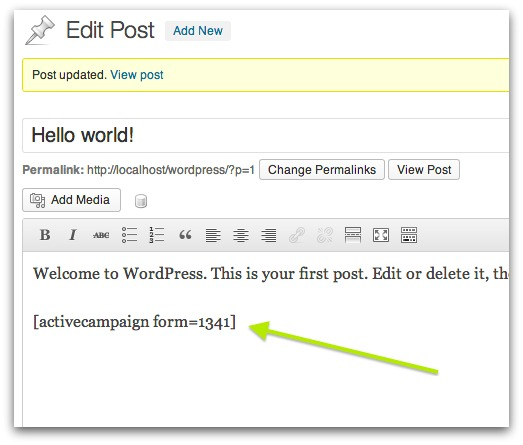
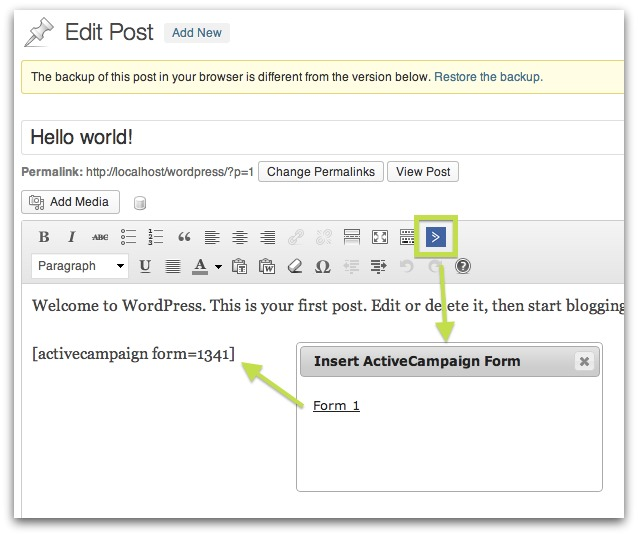
updated to version 5.1 (support for TinyMCE toolbar button for choosing and embedding forms into a post)

Changed region(s): [[0.0, 0.0292, 1.0, 0.9933]]

diff --git a/editor_buttons.js b/editor_buttons.js
@@ -1,0 +1,55 @@
+(function() {
+	tinymce.create('tinymce.plugins.ActiveCampaign', {
+		/**
+		 * Initializes the plugin, this will be executed after the plugin has been created.
+		 * This call is done before the editor instance has finished it's initialization so use the onInit event
+		 * of the editor instance to intercept that event.
+		 *
+		 * @param {tinymce.Editor} ed Editor instance that the plugin is initialized in.
+		 * @param {string} url Absolute URL to where the plugin is located.
+		 */
+		init : function(ed, url) {
+			ed.addButton("activecampaign_editor_forms", {
+				title : "Insert ActiveCampaign Form",
+				cmd : "activecampaign_editor_forms",
+				image : url + "/editor_icon.png"
+			});
+			ed.addCommand("activecampaign_editor_forms", function() {
+				activecampaign_editor_form_dialog();
+			});
+		},
+
+		/**
+		 * Creates control instances based in the incomming name. This method is normally not
+		 * needed since the addButton method of the tinymce.Editor class is a more easy way of adding buttons
+		 * but you sometimes need to create more complex controls like listboxes, split buttons etc then this
+		 * method can be used to create those.
+		 *
+		 * @param {String} n Name of the control to create.
+		 * @param {tinymce.ControlManager} cm Control manager to use inorder to create new control.
+		 * @return {tinymce.ui.Control} New control instance or null if no control was created.
+		 */
+		createControl : function(n, cm) {
+			return null;
+		},
+
+		/**
+		 * Returns information about the plugin as a name/value array.
+		 * The current keys are longname, author, authorurl, infourl and version.
+		 *
+		 * @return {Object} Name/value array containing information about the plugin.
+		 */
+		getInfo : function() {
+			return {
+				longname : "ActiveCampaign Subscription Forms",
+				author : "ActiveCampaign",
+				authorurl : "http://www.activecampaign.com",
+				infourl : "http://www.activecampaign.com/extend-wordpress.php",
+				version : "5.0"
+			};
+		}
+	});
+
+	// Register plugin
+	tinymce.PluginManager.add("activecampaign_editor_buttons", tinymce.plugins.ActiveCampaign);
+})();

diff --git a/activecampaign.php b/activecampaign.php
@@ -4,7 +4,7 @@ Plugin Name: ActiveCampaign
 Plugin URI: http://www.activecampaign.com/extend-wordpress.php
 Description: This plugin connects WordPress with your ActiveCampaign software and allows you to embed your subscription forms on your site.
 Author: ActiveCampaign
-Version: 5.0
+Version: 5.1
 Author URI: http://www.activecampaign.com
 */
 
@@ -18,6 +18,7 @@ Author URI: http://www.activecampaign.com
 ## version 4.0: Added many additional settings to control how your form is displayed and submitted.
 ## version 4.5: Added ActiveCampaign to the Settings menu so you can use the shortcode independent of the widget.
 ## version 5.0: Added support for multiple forms. Removed widget entirely.
+## version 5.1: Added button to TinyMCE toolbar to more easily choose and embed the form shortcode into the post body.
 
 define("ACTIVECAMPAIGN_URL", "");
 define("ACTIVECAMPAIGN_API_KEY", "");
@@ -375,7 +376,7 @@ function activecampaign_plugin_options() {
 
 }
 
-function dbg($var, $continue = 0, $element = "pre") {
+function ac_dbg($var, $continue = 0, $element = "pre") {
   echo "<" . $element . ">";
   echo "Vartype: " . gettype($var) . "\n";
   if ( is_array($var) ) echo "Elements: " . count($var) . "\n\n";
@@ -534,9 +535,122 @@ function activecampaign_plugin_menu() {
 	add_options_page(__("ActiveCampaign Settings", "menu-activecampaign"), __("ActiveCampaign", "menu-activecampaign"), "manage_options", "activecampaign", "activecampaign_plugin_options");
 }
 
+function activecampaign_editor_buttons() {
+	add_filter("mce_external_plugins", "activecampaign_add_buttons");
+	add_filter("mce_buttons", "activecampaign_register_buttons");
+}
+
+function activecampaign_add_buttons($plugin_array) {
+	$plugin_array["activecampaign_editor_buttons"] = get_site_url() . "/wp-content/plugins/activecampaign-subscription-forms/editor_buttons.js";
+	return $plugin_array;
+}
+
+function activecampaign_register_buttons($buttons) {
+	array_push($buttons, "activecampaign_editor_forms");
+	return $buttons;
+}
+
 //add_action("widgets_init", "activecampaign_register_widgets");
 add_action("init", "activecampaign_register_shortcodes");
+add_action("init", "activecampaign_editor_buttons");
 add_action("admin_menu", "activecampaign_plugin_menu");
 add_filter("widget_text", "do_shortcode");
+
+add_action("admin_footer", "activecampaign_javascript");
+add_action("wp_ajax_activecampaign_get_forms", "activecampaign_get_forms_callback");
+add_action("admin_enqueue_scripts", "activecampaign_custom_wp_admin_style");
+
+function activecampaign_javascript() {
+	$no_forms1 = __("No forms chosen yet. Go to the", "activecampaign-subscription-forms");
+	$no_forms2 = __("to choose your forms", "activecampaign-subscription-forms");
+	$no_forms3 = __("ActiveCampaign Settings page", "activecampaign-subscription-forms");
+	?>
+	<script type="text/javascript">
+
+		var $AC = jQuery.noConflict();
+
+		function activecampaign_editor_form_embed(form_id) {
+			// puts the [activecampaign form=#] shortcode into the body of the post.
+			var return_text = "[activecampaign form=" + form_id + "]";
+			tinymce.execCommand("mceInsertContent", 0, return_text);
+			$AC("#activecampaign_editor_forms").dialog("close");
+		}
+
+		function activecampaign_editor_form_dialog() {
+			// runs when you click the ActiveCampaign icon in the TinyMCE toolbar.
+
+			// shows the dialog to choose a form (after clicking the button in the editor).
+			$AC("#activecampaign_editor_forms").dialog({
+				title: "Insert ActiveCampaign Form"
+			});
+
+		}
+
+		jQuery(document).ready(function($AC) {
+
+			var editor_forms = "<div id='activecampaign_editor_forms'></div>";
+
+			var ajaxdata = {
+				action: "activecampaign_get_forms"
+				//whatever: 1234
+			};
+
+			$AC.ajax({
+				url: ajaxurl,
+				type: "GET",
+				data: ajaxdata,
+				error: function(jqXHR, textStatus, errorThrown) {
+					console.log(errorThrown);
+				},
+				success: function(data) {
+					data = JSON.parse(data);
+//console.log(data);
+//console.log(data.length);
+					if (typeof(data.length) == "undefined") {
+						// when there is data, data.length returns undefined for some reason.
+						var editor_forms = "<ul>";
+						for (var i in data) {
+							if (typeof(data[i]) != "function") {
+								editor_forms += "<li><a href='#' onclick='activecampaign_editor_form_embed(" + i + "); return false;'>" + data[i] + "</a></li>";
+							}
+						}
+						editor_forms += "</ul>";
+					}
+					else if (data.length == 0) {
+						var editor_forms = "<p><?php echo $no_forms1; ?> <a href='options-general.php?page=activecampaign'><?php echo $no_forms3; ?></a> <?php echo $no_forms2; ?>.</p>";
+					}
+					$AC("#activecampaign_editor_forms").html(editor_forms);
+				}
+			});
+
+			$AC("body").append(editor_forms);
+
+		});
+
+	</script>
+	<?php
+}
+
+function activecampaign_get_forms_callback() {
+	// get forms that are cached after setting things up from the ActiveCampaign settings page.
+	global $wpdb; // this is how you get access to the database
+	$forms = array();
+	$settings = get_option("settings_activecampaign");
+//ac_dbg($settings);
+	if ($settings["form_id"]) {
+		foreach ($settings["forms"] as $form) {
+			if (in_array($form["id"], $settings["form_id"])) {
+				$forms[$form["id"]] = $form["name"];
+			}
+		}
+	}
+	echo json_encode($forms);
+	die(); // this is required to return a proper result
+}
+
+function activecampaign_custom_wp_admin_style() {
+	wp_register_style("activecampaign-subscription-forms", "http://code.jquery.com/ui/1.10.3/themes/smoothness/jquery-ui.css");
+	wp_enqueue_style("activecampaign-subscription-forms");
+}
 
 ?>
